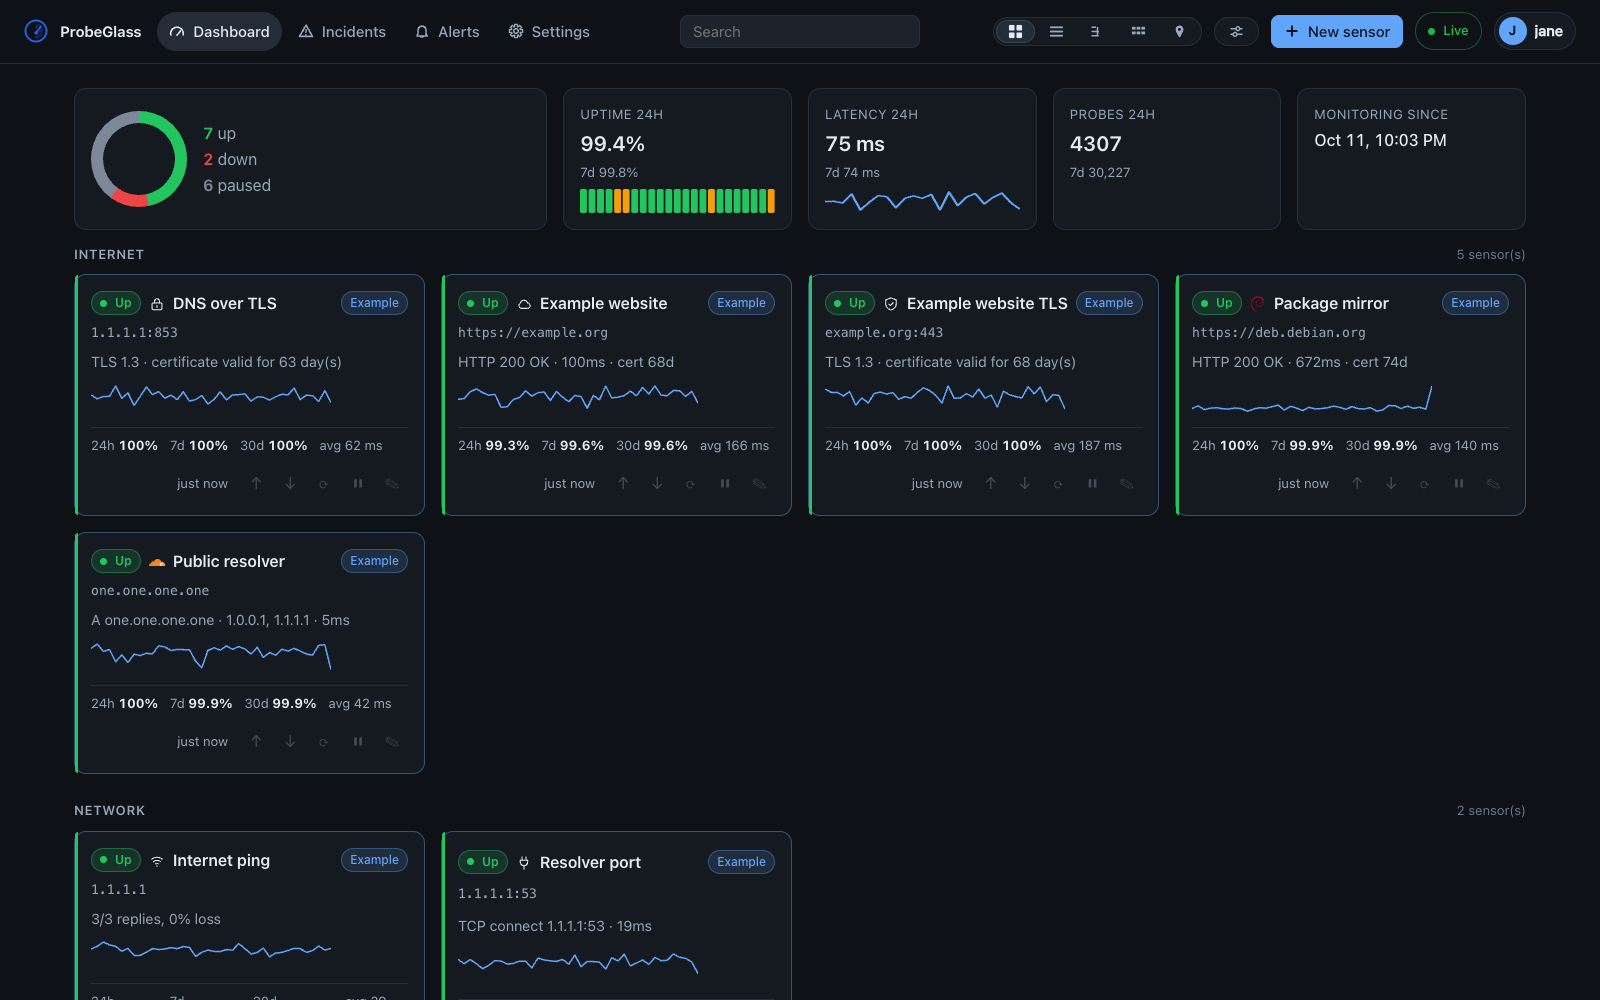
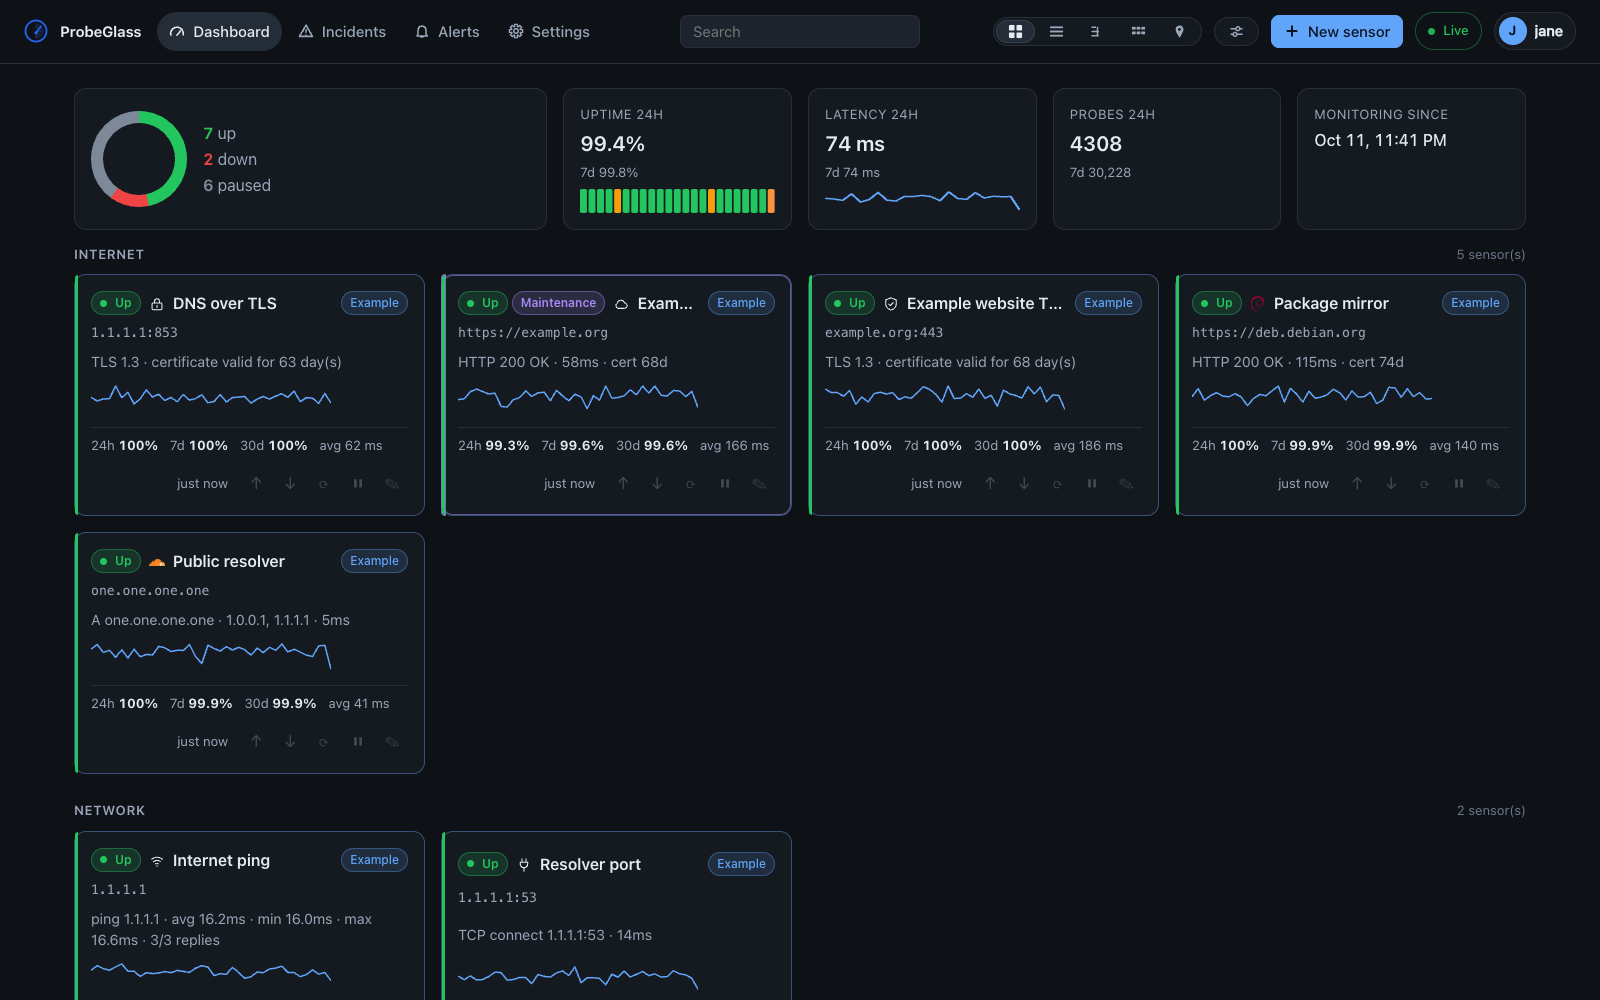
The example data arranges two maintenance windows
One is in force on "Example website" — the "Maintenance" badge on its card is what
a window looks like from the dashboard — and one is weekly, Sunday 02:00 to 04:00
in Berlin, which is what the settings list shows. Windows are the hardest feature
of the set to demonstrate, because a window that starts next Sunday is invisible:
the dataset writes one relative to the moment it is seeded so that loading it
always shows the badge.

Both carry the example marker and go with the rest of the data; the weekly one
names a group and has no sensor to cascade from, so the removal deletes example
windows by that mark.

The website's demo records /api/maintenance too, and its timestamps shift with
everything else, so the window stays in force in the recording.

Also a layout bug the badge exposed: a card carrying two pills beside the name
overflowed its own border. The cards are a grid whose single column sized to its
widest row, so a longer heading set the width and the name could not give way. The
column may shrink now and the name ends in an ellipsis.

diff --git a/internal/web/assets/style.css b/internal/web/assets/style.css
@@ -1116,6 +1116,11 @@ button.widget-pick-label {
   position: relative;
   padding: var(--pad);
   display: grid;
+  /* One column, and it may shrink below its contents. Without the minmax the
+     implicit column sizes to max-content — the widest row, which is the head once
+     a card carries two pills beside its name — and the card's contents overflow
+     their own border instead of the name giving way with an ellipsis. */
+  grid-template-columns: minmax(0, 1fr);
   gap: var(--sp-2);
   cursor: pointer;
   transition: border-color 0.15s, transform 0.15s;
@@ -1349,7 +1354,7 @@ button.widget-pick-label {
 .pill .dot { width: 7px; height: 7px; border-radius: 50%; background: currentColor; }
 /* A status pill and the badge that may follow it travel as one box, so that a row
    laid out as a grid counts them once — see statusPill. */
-.pill-group { display: inline-flex; align-items: center; gap: var(--sp-1); min-width: 0; }
+.pill-group { display: inline-flex; align-items: center; gap: var(--sp-1); min-width: 0; flex: none; }
 /* The "Example" chip. Quieter than a status pill on purpose — it is a fact about
    where the sensor came from, not a state that can change. */
 .pill.badge-example {

diff --git a/internal/demo/windows.go b/internal/demo/windows.go
@@ -1,0 +1,109 @@
+package demo
+
+import (
+	"context"
+	"time"
+
+	"github.com/j000k3r/probeglass/internal/model"
+	"github.com/j000k3r/probeglass/internal/store"
+)
+
+// The maintenance windows the dataset puts on the dashboard.
+//
+// The demo is what the documentation's pictures and the website's demo are made
+// from, and a feature that appears in none of those is a feature nobody discovers.
+// Windows are the hardest of the set to show, because one that starts next Sunday
+// is invisible: the dashboard carries no badge for a window that is not in force.
+// So the dataset writes two — one in force at the moment it is seeded, which is
+// what puts "maintenance" on a card, and one weekly, which is what the settings
+// panel lists beside the form that made it.
+type window struct {
+	// sensor names one of the dataset's sensors, empty when the window is for the
+	// whole of group.
+	sensor string
+	group  string
+	// before and length place a one-off window relative to the seed: it begins
+	// before, and ends length after that. Measured rather than written down as a
+	// date, so that the demo is in force whenever somebody loads it.
+	before time.Duration
+	length time.Duration
+	// weekdays, startMin and endMin are a weekly window, read on the clock of
+	// timezone.
+	weekdays []int
+	startMin int
+	endMin   int
+	timezone string
+	note     string
+}
+
+// The two windows. The note is the identity: it is what tells a second seed that
+// this window is already there, and it is also the sentence a reader sees in the
+// settings list, so it says what the window is for rather than that it is example
+// data — the "(example)" in the sensor names already says where it came from.
+var windows = []window{
+	{
+		// In force now: two hours in, ten to go. This is the one the card shows.
+		sensor: "Example website", before: 2 * time.Hour, length: 12 * time.Hour,
+		note: "Certificate renewal",
+	},
+	{
+		// Next Sunday, 02:00 to 04:00 in Berlin — the zone the dataset's places are
+		// near, and a time nobody would choose for anything they wanted to watch.
+		group: "Homelab", weekdays: []int{0}, startMin: 2 * 60, endMin: 4 * 60,
+		timezone: "Europe/Berlin", note: "Weekly backup window",
+	},
+}
+
+// ensureWindows writes the two windows that are not already there, and reports how
+// many it made.
+//
+// A window is recognised by its note. That is enough here and it is not a guess: the
+// dataset owns its own notes, and a second `seed --demo` finding "Certificate
+// renewal" already present is finding the one it wrote.
+func ensureWindows(ctx context.Context, st *store.Store) (int, error) {
+	existing, err := st.ListWindows(ctx)
+	if err != nil {
+		return 0, err
+	}
+	known := make(map[string]bool, len(existing))
+	for _, w := range existing {
+		known[w.Note] = true
+	}
+
+	now := time.Now().UTC().Truncate(time.Minute)
+	made := 0
+	for _, d := range windows {
+		if known[d.note] {
+			continue
+		}
+		w := model.MaintenanceWindow{
+			Kind:    model.WindowWeekly,
+			Note:    d.note,
+			Enabled: true,
+			Origin:  model.OriginExample,
+		}
+		if d.sensor != "" {
+			c, err := st.GetSensorByName(ctx, d.sensor)
+			if err != nil {
+				return made, err
+			}
+			start := now.Add(-d.before)
+			end := start.Add(d.length)
+			w.Kind = model.WindowOnce
+			w.SensorID = c.ID
+			w.StartsAt = &start
+			w.EndsAt = &end
+		} else {
+			w.Group = d.group
+			w.Weekdays = d.weekdays
+			w.StartMin = d.startMin
+			w.EndMin = d.endMin
+			w.Timezone = d.timezone
+		}
+		if err := st.CreateWindow(ctx, &w); err != nil {
+			return made, err
+		}
+		made++
+	}
+	return made, nil
+}

diff --git a/internal/demo/demo_test.go b/internal/demo/demo_test.go
@@ -651,3 +651,76 @@ func uploadID(t *testing.T, ref string) int64 {
 	}
 	return id
 }
+
+// The demo carries maintenance windows: one in force, which is what the card's
+// "maintenance" badge is drawn from, and one weekly, which is what the settings
+// panel lists. Neither is visible in a dataset that does not write them.
+func TestSeedWritesMaintenanceWindows(t *testing.T) {
+	st := testStore(t)
+	ctx := context.Background()
+	if _, err := Seed(ctx, st, 7); err != nil {
+		t.Fatalf("seed: %v", err)
+	}
+
+	got, err := st.ListWindows(ctx)
+	if err != nil {
+		t.Fatalf("list windows: %v", err)
+	}
+	if len(got) != len(windows) {
+		t.Fatalf("the seed wrote %d window(s), want %d", len(got), len(windows))
+	}
+
+	var once, weekly *model.MaintenanceWindow
+	for i := range got {
+		switch got[i].Kind {
+		case model.WindowOnce:
+			once = &got[i]
+		case model.WindowWeekly:
+			weekly = &got[i]
+		}
+	}
+	if once == nil || weekly == nil {
+		t.Fatalf("the seed wrote one of each kind, and this is %+v", got)
+	}
+
+	// The one-off window is in force now, which is the whole reason it is written
+	// relative to the seed rather than as a date.
+	var covered model.Sensor
+	for _, c := range mustSensors(t, st) {
+		if store.ActiveWindows([]model.MaintenanceWindow{*once}, c, time.Now().UTC()) {
+			covered = c
+		}
+	}
+	if covered.Name == "" {
+		t.Fatal("the one-off window covers no sensor at the moment it was seeded")
+	}
+
+	if weekly.Group == "" || len(weekly.Weekdays) == 0 || weekly.Timezone == "" {
+		t.Errorf("the weekly window is not a weekly window: %+v", weekly)
+	}
+
+	// A second seed adds no second set.
+	if _, err := Seed(ctx, st, 7); err != nil {
+		t.Fatalf("second seed: %v", err)
+	}
+	again, err := st.ListWindows(ctx)
+	if err != nil {
+		t.Fatalf("list windows again: %v", err)
+	}
+	if len(again) != len(got) {
+		t.Errorf("the second seed left %d window(s), want the same %d", len(again), len(got))
+	}
+
+	// And removing the example data takes them with it — including the weekly one,
+	// which names a group and has no sensor to cascade from.
+	if _, err := st.DeleteExampleData(ctx); err != nil {
+		t.Fatalf("remove example data: %v", err)
+	}
+	left, err := st.ListWindows(ctx)
+	if err != nil {
+		t.Fatalf("list windows after removal: %v", err)
+	}
+	if len(left) != 0 {
+		t.Errorf("%d window(s) survived the removal: %+v", len(left), left)
+	}
+}

diff --git a/internal/store/examples.go b/internal/store/examples.go
@@ -99,10 +99,17 @@ func (s *Store) DeleteExampleData(ctx context.Context) (ExampleData, error) {
 		}
 		// After the sensors, so the NOT EXISTS above is evaluated against the state
 		// it was counted in and the two cannot disagree.
-		_, err := tx.ExecContext(ctx,
+		if _, err := tx.ExecContext(ctx,
 			`DELETE FROM sites WHERE origin = ? AND NOT EXISTS
 				(SELECT 1 FROM sensors WHERE sensors.site = sites.name)`,
-			model.OriginExample)
+			model.OriginExample); err != nil {
+			return err
+		}
+		// And the windows the dataset arranged. A window that names a sensor has
+		// already gone with it through the foreign key; one that names a group has
+		// nothing to follow, which is what the marker is for.
+		_, err := tx.ExecContext(ctx,
+			`DELETE FROM maintenance_windows WHERE origin = ?`, model.OriginExample)
 		return err
 	})
 	return removed, err

diff --git a/internal/demo/demo.go b/internal/demo/demo.go
@@ -462,6 +462,14 @@ func Seed(ctx context.Context, st *store.Store, days int) (Result, error) {
 		return Result{}, err
 	}
 
+	// The maintenance windows, after the sensors they name: a one-off window holds a
+	// sensor id, and the id only exists once the row does. They are written before
+	// the history, so that a dashboard asked for a status a moment later already
+	// carries the badge the dataset is here to show.
+	if _, err := ensureWindows(ctx, st); err != nil {
+		return Result{}, err
+	}
+
 	byName := make(map[string]sensor, len(sensors))
 	for _, d := range sensors {
 		byName[d.name] = d

diff --git a/cmd/demogen/main.go b/cmd/demogen/main.go
@@ -396,6 +396,10 @@ func (r *recorder) recordDashboard(ctx context.Context, st *store.Store) error {
 		// mouse rather than one that quietly shows less.
 		"/api/groups",
 		"/api/icons",
+		// The maintenance windows the dataset arranges. The panel is two clicks
+		// from the dashboard, and one of the two is in force, so its timestamps are
+		// what the cards' badges are drawn from as well.
+		"/api/maintenance",
 	}
 	for _, raw := range fixed {
 		if err := r.get(ctx, raw); err != nil {

diff --git a/CHANGELOG.md b/CHANGELOG.md
@@ -11,7 +11,7 @@ here and what the release says are the same document.
 
 | Version | Released | In one line |
 | --- | --- | --- |
-| [Unreleased] | — | Uploaded example pictures, so both kinds of symbol are on the first dashboard |
+| [Unreleased] | — | Uploaded example pictures and two maintenance windows, so both are on the first dashboard |
 | [0.2.2] | 2026-10-18 | A symbol on every sensor, place and group — ours, yours, or searched for online — and one set of measurements for the whole dashboard |
 | [0.2.1] | 2026-10-16 | A sensor under maintenance says so |
 | [0.2.0] | 2026-10-16 | Maintenance windows, a second interface language, and the container as the only thing that ships |
@@ -41,6 +41,18 @@ here and what the release says are the same document.
   The website's demo is a folder of static files and draws an uploaded icon with
   `<img src="/api/icons/7">` — a route only a server can answer. There the recording
   uses the drawing each picture stands for instead, through `demo.RecordBuiltinIcons`.
+
+- **The example data arranges two maintenance windows, so the feature is visible
+  without setting one up.** One is in force on *Example website* — the badge on its
+  card is what a window looks like from the dashboard — and one is weekly, Sunday
+  02:00 to 04:00 in Berlin, which is what the settings list shows. Both are marked as
+  example data and go with the rest of it, including the weekly one: it names a group
+  rather than a sensor, so it has no row to cascade from and is removed by that mark.
+
+  And a card that carried two pills beside its name overflowed its own border. The
+  cards are a grid whose one column sized to its widest row, so a longer heading set
+  the width and the name had nothing left to give up. That column may shrink now, and
+  a name that does not fit ends in an ellipsis with the whole of it in the tooltip.
 
 ## [0.2.2] - 2026-10-18
 
